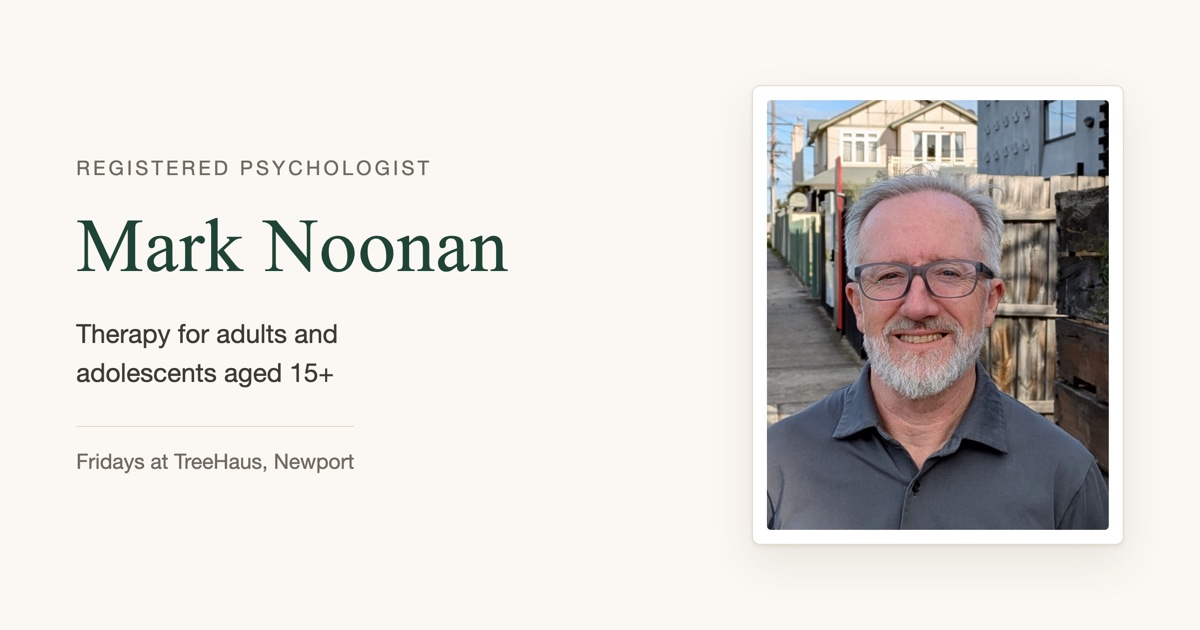
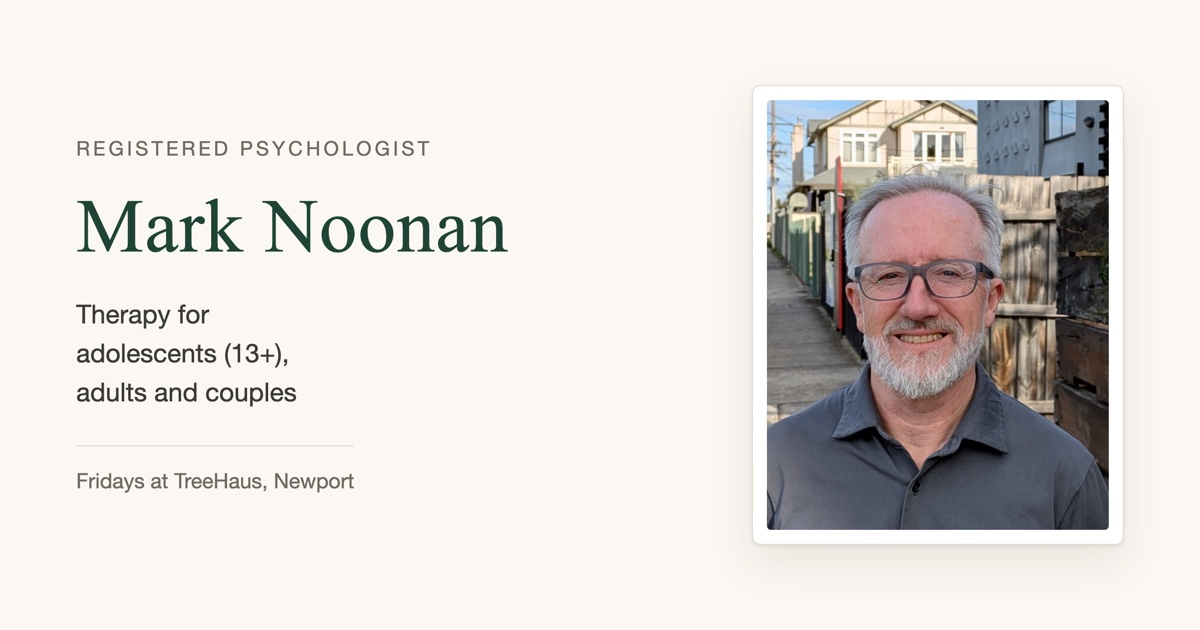
Update content for current scope of practice and approach
Replaces the copy in the overview, about, how-I-can-help and approach
sections with Mark's revised wording. Qualifications, getting started
and contact are unchanged.

- Adolescents 13+ (was 15+), couples added, neurodiverse clients welcomed
- About me rewritten; approach is now psychodynamic, person-centred
  and relational rather than a list of modalities
- EMDR removed entirely: term button, definition panel and the entry in
  the structured data. ACT and attachment remain as clickable terms
- How I can help goes from five areas to six, adding couples and
  anger/boundaries/self-worth
- Search and social descriptions, and the structured data, updated to
  match the visible copy
- Nearby suburbs named in an ordinary sentence under the address, and
  listed in areaServed, for local search
- assets/og-card.jpg rebuilt from tools/og-card.html for the new tagline

Changed region(s): [[0.0617, 0.2111, 0.4317, 0.4524], [0.0617, 0.4825, 0.3083, 0.6635], [0.0617, 0.7238, 0.3083, 0.7841]]

diff --git a/index.html b/index.html
@@ -4,17 +4,17 @@
 <meta charset="utf-8">
 <meta name="viewport" content="width=device-width, initial-scale=1">
 <title>Mark Noonan | Registered Psychologist | Newport, Melbourne</title>
-<meta name="description" content="Registered psychologist in Newport, Melbourne. Warm, trauma-informed therapy for adults and adolescents 15+. Fridays at TreeHaus. Medicare rebates available.">
+<meta name="description" content="Registered psychologist in Newport, Melbourne. Warm, collaborative therapy for adolescents (13+), adults and couples. Fridays at TreeHaus. Medicare rebates available.">
 <link rel="canonical" href="https://marknoonanpsychology.com.au/">
 
 <meta property="og:type" content="website">
 <meta property="og:title" content="Mark Noonan | Registered Psychologist">
-<meta property="og:description" content="Warm, collaborative and trauma-informed therapy for adults and adolescents aged 15+. Consulting Fridays at TreeHaus, Newport.">
+<meta property="og:description" content="Warm, collaborative therapy for adolescents (13+), adults and couples. Consulting Fridays at TreeHaus, Newport.">
 <meta property="og:url" content="https://marknoonanpsychology.com.au/">
 <meta property="og:image" content="https://marknoonanpsychology.com.au/assets/og-card.jpg">
 <meta property="og:image:width" content="1200">
 <meta property="og:image:height" content="630">
-<meta property="og:image:alt" content="Mark Noonan, Registered Psychologist. Therapy for adults and adolescents aged 15+. Fridays at TreeHaus, Newport.">
+<meta property="og:image:alt" content="Mark Noonan, Registered Psychologist. Therapy for adolescents (13+), adults and couples. Fridays at TreeHaus, Newport.">
 <meta property="og:locale" content="en_AU">
 <meta name="twitter:card" content="summary_large_image">
 <meta name="twitter:image" content="https://marknoonanpsychology.com.au/assets/og-card.jpg">
@@ -58,9 +58,9 @@
 
   <section class="hero" id="top">
     <p class="eyebrow">Registered Psychologist in Newport</p>
-    <h1>Therapy for adults and adolescents aged&nbsp;15+</h1>
-    <p class="lede">I provide warm, collaborative and trauma-informed therapy, supporting people through a range of mental health, relationship and life challenges.</p>
-    <p class="lede">I have particular interests in trauma and PTSD, anxiety and depression, relationship difficulties, life transitions, and alcohol and other drug concerns.</p>
+    <h1>Therapy for adolescents&nbsp;(13+), adults and couples</h1>
+    <p class="lede">I provide warm, collaborative therapy for a range of mental health, relationship and life challenges, including trauma, anxiety and depression, life transitions, and alcohol and other drug concerns.</p>
+    <p class="lede">I welcome neurodiverse clients.</p>
     <p class="place">Consulting Fridays at TreeHaus, Newport</p>
     <p class="actions">
       <a class="button" href="#contact">Get in touch</a>
@@ -72,9 +72,13 @@
     <h2>About me</h2>
     <div class="about-grid">
       <div class="about-text">
-        <p>I am a registered psychologist with over 18 years' experience working in community health. I have worked with people experiencing a broad range of psychological and life challenges, and have developed particular interests in trauma, mental health, relationships and life transitions.</p>
-        <p>I believe that understanding a person's history, relationships and strengths is central to effective therapy. I aim to create a safe and respectful space where people can explore their experiences, develop new perspectives and find ways forward.</p>
-        <p>My approach is warm, collaborative and tailored to each person's individual circumstances, needs and goals.</p>
+        <p>Mark is a registered psychologist who believes that meaningful change often begins with feeling genuinely heard and understood.</p>
+        <p>With over 18 years' experience in community health, Mark has worked with people experiencing a broad range of mental health, relationship and life challenges, including complex and longstanding difficulties.</p>
+        <p>He offers a warm, thoughtful and collaborative approach, with the therapeutic relationship at the centre of his work. He starts with what feels important to you, exploring what is happening in your life and, when useful, how earlier experiences and relationships may have shaped the ways you think, feel and respond. He listens carefully, asks questions, notices connections and offers perspectives, while gently challenging when appropriate.</p>
+        <p>His approach is informed by psychodynamic, person-centred and relational perspectives. He also draws flexibly on ACT, CBT, schema-focused and compassion-focused approaches, as well as attachment, trauma-informed and mindfulness-based perspectives. The approach is tailored to the person rather than following a fixed formula.</p>
+        <p>An important part of Mark's work is helping people understand how earlier experiences can continue to shape their lives, while finding greater freedom in how they respond in the present. This may involve developing emotional awareness and regulation, strengthening self-worth and autonomy, changing difficulties in relationships, or finding new ways of responding to challenges that have felt stuck.</p>
+        <p>Mark works with adolescents (13+), adults and couples, including neurodiverse clients. He works with a range of mental health and life concerns, including trauma, anxiety and depression, relationship difficulties, anger, boundaries and assertiveness, self-worth, and grief and loss.</p>
+        <p>Mark is experienced in working with people who want to change their relationship with alcohol or other drugs, including those wanting to stop, reduce their use or reduce harm.</p>
 
         <h3>Qualifications</h3>
         <ul class="quals">
@@ -93,24 +97,28 @@
     <h2>How I can help</h2>
     <div class="areas-grid">
       <div>
-        <h3>Trauma and PTSD</h3>
-        <p>Support for people affected by traumatic experiences and their ongoing impact on emotions, relationships and everyday life.</p>
+        <h3>Trauma and its ongoing effects</h3>
+        <p>Support for people affected by traumatic experiences, including difficulties that continue to affect emotions, relationships, self-worth and everyday life.</p>
       </div>
       <div>
         <h3>Anxiety and depression</h3>
-        <p>Support with persistent worry, low mood, loss of motivation, feeling overwhelmed and difficulties coping.</p>
+        <p>Support with persistent worry, low mood, feeling overwhelmed, loss of motivation and difficulties coping with life's challenges.</p>
       </div>
       <div>
-        <h3>Relationships</h3>
-        <p>Exploring relationship patterns, communication, boundaries and difficulties in close relationships.</p>
+        <h3>Relationships and couples</h3>
+        <p>Exploring relationship difficulties, communication, boundaries and ways of relating to each other. Mark also works with couples who want to better understand and change difficulties within their relationship.</p>
       </div>
       <div>
-        <h3>Life transitions</h3>
-        <p>Support through periods of significant change, uncertainty, loss or adjustment.</p>
+        <h3>Anger, boundaries and self-worth</h3>
+        <p>Support with understanding and managing anger, setting boundaries, becoming more assertive, developing self-worth and understanding what may make these things difficult.</p>
       </div>
       <div>
-        <h3>Alcohol and other drug concerns</h3>
-        <p>Support for people wanting to better understand or change their relationship with alcohol or other drugs.</p>
+        <h3>Life transitions, grief and loss</h3>
+        <p>Support through periods of significant change, uncertainty, separation, loss or adjustment.</p>
+      </div>
+      <div>
+        <h3>Alcohol and other drug use</h3>
+        <p>Support for people who want to better understand or change their relationship with alcohol or other drugs, including those wanting to stop drinking or using, reduce their use, or reduce harm.</p>
       </div>
     </div>
     <p class="pullquote">I also work with a broad range of other mental health and life concerns. If you're unsure whether I can help, you're welcome to get in touch to discuss your situation.</p>
@@ -118,23 +126,24 @@
 
   <section id="approach">
     <h2>My approach</h2>
-    <p>I take a warm, collaborative and trauma-informed approach to therapy, drawing on evidence-based approaches including <button type="button" class="term" aria-expanded="false" aria-controls="def-act">Acceptance and Commitment Therapy (ACT)</button>, <button type="button" class="term" aria-expanded="false" aria-controls="def-emdr">EMDR</button> and <button type="button" class="term" aria-expanded="false" aria-controls="def-attachment">attachment-informed therapy</button>.</p>
+    <p>I believe that meaningful change often begins with feeling genuinely heard and understood.</p>
+
+    <p>My approach is primarily psychodynamic, person-centred and relational. I start with what feels important to you and follow the threads that emerge, rather than following a fixed formula. I'm interested in understanding not only what is happening now, but also how relationships and earlier experiences may have shaped the ways you think, feel and respond.</p>
+
+    <p>The therapeutic relationship is central to my work. I see myself as a guide and collaborator rather than the expert on you. I listen carefully, notice connections, ask questions, offer perspectives and, when helpful, gently challenge.</p>
+
+    <p>I also draw on <button type="button" class="term" aria-expanded="false" aria-controls="def-act">ACT</button>, CBT, schema-focused and compassion-focused approaches, as well as mindfulness, <button type="button" class="term" aria-expanded="false" aria-controls="def-attachment">attachment</button> and trauma-informed perspectives. I use these flexibly according to what is useful for each person.</p>
 
     <div class="term-panel" id="def-act" hidden>
-      <p>Rather than trying to argue difficult thoughts away or get rid of them, ACT focuses on changing your relationship to them, and on building a life around what matters most to you.</p>
+      <p>Acceptance and Commitment Therapy. Rather than trying to argue difficult thoughts away or get rid of them, ACT focuses on changing your relationship to them, and on building a life around what matters most to you.</p>
       <p class="term-more"><a href="https://en.wikipedia.org/wiki/Acceptance_and_commitment_therapy" target="_blank" rel="noopener">Read more about ACT</a></p>
-    </div>
-    <div class="term-panel" id="def-emdr" hidden>
-      <p>After something traumatic, a memory can stay raw and unfinished, so reminders of it still feel like the present rather than the past. EMDR uses a structured, gentle process to help the brain finish processing those memories so they carry less charge.</p>
-      <p class="term-more"><a href="https://en.wikipedia.org/wiki/Eye_movement_desensitization_and_reprocessing" target="_blank" rel="noopener">Read more about EMDR</a></p>
     </div>
     <div class="term-panel" id="def-attachment" hidden>
       <p>The ways we learned to connect with people early in life tend to shape how we relate to others as adults. An attachment-informed approach pays attention to those patterns and how they show up in the relationships that matter now.</p>
       <p class="term-more"><a href="https://en.wikipedia.org/wiki/Attachment-based_psychotherapy" target="_blank" rel="noopener">Read more about attachment-based therapy</a></p>
     </div>
 
-    <p>I don't believe therapy is one-size-fits-all. I draw on different approaches according to each person's presentation, preferences and goals.</p>
-    <p>The therapeutic relationship is an important part of my work, and I aim to create a space where people feel safe, respected and able to be themselves.</p>
+    <p>Understanding how our difficulties developed can be important, but the aim is not to remain defined or constrained by the past. Greater understanding can help loosen its hold and create more freedom in how we respond to ourselves, our relationships and our lives.</p>
   </section>
 
   <section id="start">
@@ -158,7 +167,7 @@
   <section id="practical">
     <h2>Fees and practical information</h2>
     <dl class="practical">
-      <div><dt>Who I see</dt><dd>Adults and adolescents aged 15+</dd></div>
+      <div><dt>Who I see</dt><dd>Adolescents (13+), adults and couples</dd></div>
       <div><dt>Appointments</dt><dd>Fridays, 9am to 5pm</dd></div>
       <div><dt>Session length</dt><dd>50 minutes</dd></div>
       <div><dt>Fee</dt><dd>$220 per session <span class="muted">(before Medicare rebate)</span></dd></div>
@@ -191,6 +200,7 @@
           35 Challis Street<br>
           Newport VIC 3015
         </p>
+        <p>The practice is in Newport, in Melbourne's inner west, a short drive from Williamstown, Spotswood, Yarraville, Seddon, Altona and Footscray, and about 10&nbsp;km from the Melbourne CBD.</p>
         <a class="map" href="https://www.google.com/maps/dir/?api=1&amp;destination=35+Challis+Street+Newport+VIC+3015" target="_blank" rel="noopener" aria-label="Open directions to 35 Challis Street, Newport in Google Maps">
           <span class="map-image"></span>
           <span class="pin" aria-hidden="true"></span>
@@ -225,7 +235,7 @@
   "@type": "Psychologist",
   "@id": "https://marknoonanpsychology.com.au/#practice",
   "name": "Mark Noonan Psychology",
-  "description": "Warm, collaborative and trauma-informed therapy for adults and adolescents aged 15+, in Newport, Melbourne.",
+  "description": "Warm, collaborative therapy for adolescents (13+), adults and couples, in Newport, Melbourne.",
   "url": "https://marknoonanpsychology.com.au/",
   "image": "https://marknoonanpsychology.com.au/assets/mark.jpg",
   "telephone": "+61411477292",
@@ -254,16 +264,27 @@
   },
   "areaServed": [
     { "@type": "City", "name": "Melbourne" },
-    { "@type": "AdministrativeArea", "name": "Victoria" }
+    { "@type": "AdministrativeArea", "name": "Victoria" },
+    { "@type": "AdministrativeArea", "name": "Hobsons Bay, Victoria" },
+    { "@type": "Place", "name": "Newport, Victoria" },
+    { "@type": "Place", "name": "Williamstown, Victoria" },
+    { "@type": "Place", "name": "Spotswood, Victoria" },
+    { "@type": "Place", "name": "Yarraville, Victoria" },
+    { "@type": "Place", "name": "Seddon, Victoria" },
+    { "@type": "Place", "name": "Altona, Victoria" },
+    { "@type": "Place", "name": "Footscray, Victoria" }
   ],
   "knowsAbout": [
-    "Trauma and PTSD",
+    "Trauma",
     "Anxiety and depression",
     "Relationship difficulties",
-    "Life transitions",
-    "Alcohol and other drug concerns",
+    "Couple and relationship counselling",
+    "Anger, boundaries and self-worth",
+    "Life transitions, grief and loss",
+    "Alcohol and other drug use",
+    "Psychodynamic psychotherapy",
+    "Person-centred therapy",
     "Acceptance and Commitment Therapy",
-    "EMDR",
     "Attachment-informed therapy"
   ],
   "founder": {

diff --git a/tools/og-card.html b/tools/og-card.html
@@ -49,7 +49,7 @@
   <div class="text">
     <div class="eyebrow">Registered Psychologist</div>
     <h1>Mark Noonan</h1>
-    <div class="sub">Therapy for adults and adolescents aged 15+</div>
+    <div class="sub">Therapy for adolescents (13+), adults and couples</div>
     <div class="place">Fridays at TreeHaus, Newport</div>
   </div>
   <figure><img src="../assets/mark.jpg" alt=""></figure>

diff --git a/README.md b/README.md
@@ -34,7 +34,7 @@ If you set one up, tell me before the site goes live and I will swap it in. It a
 Almost every word on the site is yours, just reordered. Two blocks are not, and I would like you to correct them or cut them:
 
 1. **The "Getting started" section**, the three numbered steps about first contact, a short conversation, and the first session. I wrote these because people deciding whether to email a psychologist are usually most anxious about what happens next. But they describe how *you* work, so the words should be yours.
-2. **The three therapy explanations.** On the site, "Acceptance and Commitment Therapy (ACT)", "EMDR" and "attachment-informed therapy" can be clicked, and a short plain-English description appears. I drafted those descriptions from published sources. You may well explain them differently to your own clients.
+2. **The two therapy explanations.** On the site, "ACT" and "attachment" in the "My approach" section can be clicked, and a short plain-English description appears. I drafted those descriptions from published sources. You may well explain them differently to your own clients.
 
 Read both on the site, mark up anything that is not how you would put it, and send it back.
 
@@ -129,6 +129,10 @@ Go to [business.google.com](https://business.google.com) and create a profile fo
 
 Google verifies the address by posting a code to it, which takes a week or two, so start it early. You will need TreeHaus to be comfortable with you listing their address.
 
+### Nearby suburbs
+
+Under the map, the site names the suburbs around Newport in an ordinary sentence, and the hidden data lists them properly. That is the honest version of what some clinics do by stuffing suburb names into invisible text, which Google penalises. If there is a suburb you actually draw clients from and I have missed it, tell me and I will add it.
+
 ### Google Search Console
 
 Go to [search.google.com/search-console](https://search.google.com/search-console), add `marknoonanpsychology.com.au`, and follow the verification steps. Then submit `https://marknoonanpsychology.com.au/sitemap.xml` when it asks for a sitemap. This tells Google the site exists rather than waiting to be found, and shows you what people searched for to reach you.
@@ -156,7 +160,7 @@ Plain HTML and CSS, no build step, no dependencies, no framework. `index.html`, 
 - Two things make the map legible and are easy to undo by accident. It is rendered at 880x587 to match its roughly 440px display box at 2x, using CARTO's `@2x` tiles so labels are drawn at retina size; rendering a larger image and letting the browser shrink it makes the street names unreadable. And the dark tiles get a tone curve, because CARTO's dark style squeezes land, roads and labels into values 8 to 60 and is far too dim inside a small panel. Constants and reasoning are in the script.
 - Google Maps imagery is deliberately not used. Screenshotting Google Maps and hosting the result breaches their terms; the licensed route is the Static Maps API, which needs an API key with billing enabled.
 - `assets/og-card.jpg` (1200x630 social share card) is rendered from `tools/og-card.html`; the rebuild command is a comment at the top of that file. Rebuild whenever the photo, name or tagline changes.
-- The three modality terms in "My approach" are `<button>` elements with `aria-expanded`/`aria-controls` driving sibling `.term-panel` divs. One open at a time, all closed on load.
+- The two modality terms in "My approach" are `<button>` elements with `aria-expanded`/`aria-controls` driving sibling `.term-panel` divs. One open at a time, all closed on load.
 - No Medicare rebate amount is published deliberately, since the Government indexes rebates every 1 July and any figure would silently go stale. The relevant item is 80110 on [MBS Online](https://www9.health.gov.au/mbs/fullDisplay.cfm?type=item&q=80110) if that decision is ever revisited.
 - `CNAME` holds the apex domain for GitHub Pages. `sitemap.xml` has a `lastmod` worth bumping on meaningful content changes.
 - Cloudflare Pages is a drop-in alternative: connect the repo, no build command, output directory `/`.
